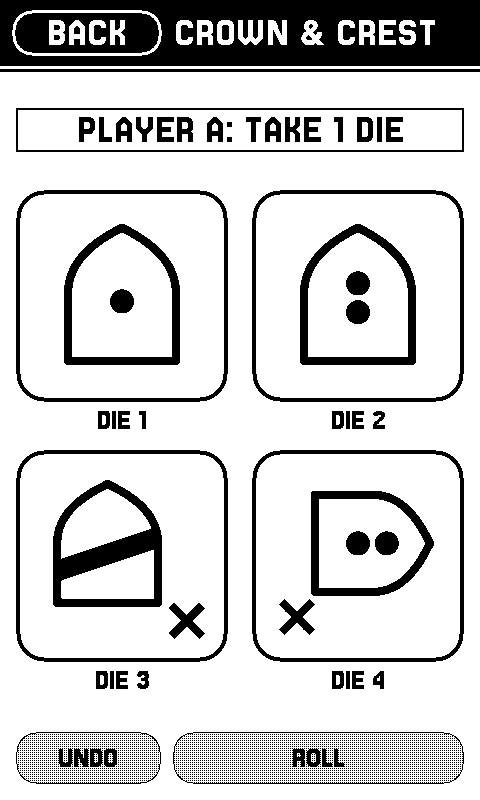
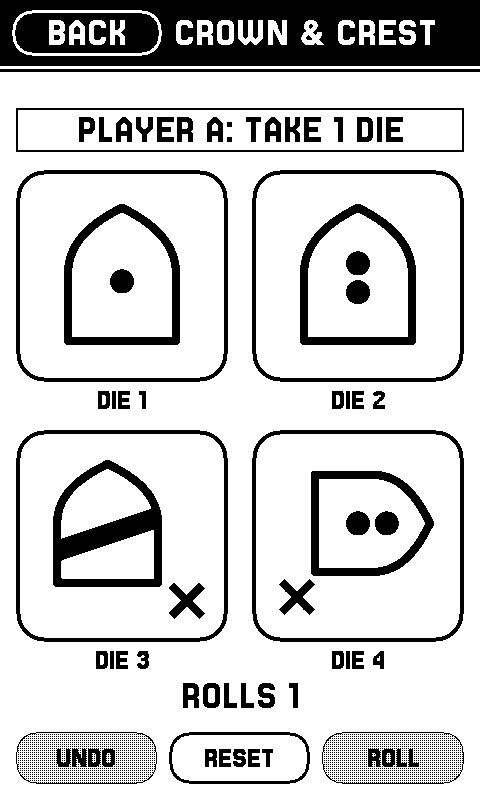
feat(crowncrest): count the rolls, and RESET to start a new game
ROLLS under the dice counts every roll by either player, up to 99999.
RESET sits between UNDO and ROLL and takes two taps: the first turns it into
SURE?, and any other tap or Down cancels it. A reset blanks the dice, clears
the picks and the count, gives player A the first roll, and erases the save.
The save is now version 3, with the count at the end.

Changed region(s): [[0.0312, 0.1875, 0.9688, 1.0], [0.75, 0.9375, 0.875, 0.9688], [0.125, 0.9375, 0.25, 0.9688]]

diff --git a/src/games/crowncrest/crowncrest.cpp b/src/games/crowncrest/crowncrest.cpp
@@ -22,7 +22,8 @@ namespace {
 constexpr const char* SAVE_FILE = "crowncrest";
 
 // A status capsule saying whose move it is, four big dice in a 2 x 2 grid with a label under
-// each naming the die and who took it, then UNDO and ROLL along the bottom.
+// each naming the die and who took it, the roll count, then UNDO, RESET and ROLL along the
+// bottom.
 constexpr int MARGIN = 16;
 constexpr int GAP = 12;
 constexpr int INNER_WIDTH = SCREEN_WIDTH - 2 * MARGIN;
@@ -34,18 +35,25 @@ constexpr int DIE_RADIUS = 28;
 constexpr int LABEL_GAP = 4;
 constexpr int LABEL_HEIGHT = 28;
 constexpr int ROW_GAP = 16;
+constexpr int COUNT_GAP = 4;
+constexpr int COUNT_HEIGHT = 36;
 constexpr int BUTTON_TOP = SCREEN_HEIGHT - MARGIN - ui::PILL_HEIGHT;
-// The grid, centred in the room between the capsule and the buttons.
+// The grid and the count, centred in the room between the capsule and the buttons.
 constexpr int CELL_HEIGHT = DIE + LABEL_GAP + LABEL_HEIGHT;
 constexpr int GRID_HEIGHT = 2 * CELL_HEIGHT + ROW_GAP;
+constexpr int GROUP_HEIGHT = GRID_HEIGHT + COUNT_GAP + COUNT_HEIGHT;
 constexpr int ROOM_TOP = STATUS_TOP + STATUS_HEIGHT + GAP;
-constexpr int GRID_TOP = ROOM_TOP + (BUTTON_TOP - GAP - ROOM_TOP - GRID_HEIGHT) / 2;
-constexpr int UNDO_WIDTH = (INNER_WIDTH - GAP) / 3;
-constexpr int ROLL_LEFT = MARGIN + UNDO_WIDTH + GAP;
-constexpr int ROLL_WIDTH = INNER_WIDTH - UNDO_WIDTH - GAP;
+constexpr int GRID_TOP = ROOM_TOP + (BUTTON_TOP - GAP - ROOM_TOP - GROUP_HEIGHT) / 2;
+constexpr int COUNT_TOP = GRID_TOP + GRID_HEIGHT + COUNT_GAP;
+constexpr int BUTTON_WIDTH = (INNER_WIDTH - 2 * GAP) / 3;
+constexpr int UNDO_LEFT = MARGIN;
+constexpr int RESET_LEFT = UNDO_LEFT + BUTTON_WIDTH + GAP;
+constexpr int ROLL_LEFT = RESET_LEFT + BUTTON_WIDTH + GAP;
+constexpr int ROLL_WIDTH = INNER_WIDTH - 2 * (BUTTON_WIDTH + GAP);  // takes the pixel left over
 
 static_assert(faces::FACE + 2 * ui::FRAME <= DIE, "a face must fit inside its die");
 static_assert(GRID_TOP >= ROOM_TOP, "the dice must start below the capsule");
+static_assert(COUNT_TOP + COUNT_HEIGHT <= BUTTON_TOP - GAP, "the count must end above the buttons");
 
 int dieLeft(int d) { return (SCREEN_WIDTH - 2 * DIE - DIE_GAP) / 2 + (d % 2) * (DIE + DIE_GAP); }
 int dieTop(int d) { return GRID_TOP + (d / 2) * (CELL_HEIGHT + ROW_GAP); }
@@ -64,9 +72,25 @@ class CrownCrest final : public Game {
   }
 
   TapResult onTap(int x, int y) override {
-    if (ui::isOnBack(x, y)) return TapResult::Leave;
+    if (ui::isOnBack(x, y)) {
+      confirming_ = false;
+      return TapResult::Leave;
+    }
+    const bool onReset = ui::isInBox(x, y, RESET_LEFT, BUTTON_TOP, BUTTON_WIDTH, ui::PILL_HEIGHT);
+    // RESET throws the game away, so it takes two taps. Any other tap only cancels it, so a
+    // second tap that misses doesn't also roll or pick.
+    if (confirming_) {
+      confirming_ = false;
+      if (onReset) return resetGame();
+      return TapResult::Redraw;
+    }
+    if (onReset) {
+      if (!cc::canReset(turn_)) return TapResult::Nothing;
+      confirming_ = true;
+      return TapResult::Redraw;
+    }
     if (ui::isInBox(x, y, ROLL_LEFT, BUTTON_TOP, ROLL_WIDTH, ui::PILL_HEIGHT)) return rollDice();
-    if (ui::isInBox(x, y, MARGIN, BUTTON_TOP, UNDO_WIDTH, ui::PILL_HEIGHT)) {
+    if (ui::isInBox(x, y, UNDO_LEFT, BUTTON_TOP, BUTTON_WIDTH, ui::PILL_HEIGHT)) {
       return cc::undoPick(turn_) ? changed() : TapResult::Nothing;
     }
     // A die and its label are one target.
@@ -78,8 +102,15 @@ class CrownCrest final : public Game {
     return TapResult::Nothing;
   }
 
-  // The Down button rolls when a roll is due, for rolling without looking.
-  TapResult onDownPressed() override { return rollDice(); }
+  // The Down button rolls when a roll is due, for rolling without looking. While RESET is
+  // asking to be confirmed, it cancels that instead.
+  TapResult onDownPressed() override {
+    if (confirming_) {
+      confirming_ = false;
+      return TapResult::Redraw;
+    }
+    return rollDice();
+  }
 
   void draw(uint8_t* frame) override {
     ui::drawBand(frame, name(), nullptr, true);
@@ -97,11 +128,21 @@ class CrownCrest final : public Game {
       }
       drawLabel(frame, d);
     }
+    char count[16];
+    std::snprintf(count, sizeof(count), "ROLLS %u", static_cast<unsigned>(turn_.rolls));
+    drawTextInBox(frame, Font::Size20, MARGIN, COUNT_TOP, INNER_WIDTH, COUNT_HEIGHT, count);
 
     if (turn_.picks == 0) {
-      ui::drawDimmedPill(frame, MARGIN, BUTTON_TOP, UNDO_WIDTH, "UNDO");
+      ui::drawDimmedPill(frame, UNDO_LEFT, BUTTON_TOP, BUTTON_WIDTH, "UNDO");
     } else {
-      ui::drawPill(frame, MARGIN, BUTTON_TOP, UNDO_WIDTH, "UNDO", false);
+      ui::drawPill(frame, UNDO_LEFT, BUTTON_TOP, BUTTON_WIDTH, "UNDO", false);
+    }
+    if (confirming_) {
+      ui::drawPill(frame, RESET_LEFT, BUTTON_TOP, BUTTON_WIDTH, "SURE?", true);
+    } else if (cc::canReset(turn_)) {
+      ui::drawPill(frame, RESET_LEFT, BUTTON_TOP, BUTTON_WIDTH, "RESET", false);
+    } else {
+      ui::drawDimmedPill(frame, RESET_LEFT, BUTTON_TOP, BUTTON_WIDTH, "RESET");
     }
     char roll[16];
     std::snprintf(roll, sizeof(roll), "%s ROLLS", playerName(cc::nextRoller(turn_)));
@@ -128,12 +169,21 @@ class CrownCrest final : public Game {
     return cc::rollTurn(turn_, source_, entropy) ? changed() : TapResult::Nothing;
   }
 
+  // A new game, as the first time it's opened, so it's a full refresh.
+  TapResult resetGame() {
+    cc::reset(turn_);
+    persist();
+    return TapResult::RedrawFull;
+  }
+
   // Whose move it is, in words. Solid once all four dice are shared out, so the end of a turn
   // stands out from the picking.
   void drawStatus(uint8_t* frame) const {
     char text[40];
     const uint8_t p = cc::picker(turn_);
-    if (!cc::rolled(turn_.dice)) {
+    if (confirming_) {
+      std::snprintf(text, sizeof(text), "NEW GAME? TAP SURE?");
+    } else if (!cc::rolled(turn_.dice)) {
       std::snprintf(text, sizeof(text), "PLAYER A ROLLS FIRST");
     } else if (cc::done(turn_)) {
       std::snprintf(text, sizeof(text), "PLAYER %s ROLLS NEXT", playerName(cc::nextRoller(turn_)));
@@ -144,7 +194,7 @@ class CrownCrest final : public Game {
     } else {
       std::snprintf(text, sizeof(text), "PLAYER %s: TAKE 1 MORE", playerName(p));
     }
-    const bool solid = cc::done(turn_);
+    const bool solid = cc::done(turn_) && !confirming_;
     if (solid) {
       fillRect(frame, MARGIN, STATUS_TOP, INNER_WIDTH, STATUS_HEIGHT, true);
     } else {
@@ -179,10 +229,15 @@ class CrownCrest final : public Game {
     }
   }
 
-  // The turn, saved on every roll and pick, so a wake shows the same dice and picks.
+  // The turn and the count, saved on every roll and pick, so a wake shows the same dice and
+  // picks. After a reset there's nothing to keep, so the save is erased.
   void persist() {
     if (!storage::ready()) {
       saveFailed_ = false;
+      return;
+    }
+    if (!cc::canReset(turn_)) {
+      saveFailed_ = !storage::erase(SAVE_FILE);
       return;
     }
     uint8_t data[cc::SAVE_BYTES];
@@ -194,6 +249,7 @@ class CrownCrest final : public Game {
   cc::Source source_{};
   bool loaded_ = false;
   bool saveFailed_ = false;
+  bool confirming_ = false;  // RESET was tapped once; not saved, so a wake forgets it
 };
 
 }  // namespace

diff --git a/tests/crowncrest/test_crowncrest.cpp b/tests/crowncrest/test_crowncrest.cpp
@@ -132,21 +132,57 @@ void testSave() {
   Turn untouched;
   check(!unpack(SAVE_VERSION - 1, data, SAVE_BYTES, untouched), "an old version is refused");
   check(!unpack(SAVE_VERSION, data, SAVE_BYTES - 1, untouched), "a short save is refused");
-  const uint8_t blankDie[SAVE_BYTES] = {1, 2, 0, 4, 0, 0, 0, 0, 0};
+  const uint8_t blankDie[SAVE_BYTES] = {1, 2, 0, 4, 0, 0, 0, 0, 0, 1, 0, 0, 0};
   check(!unpack(SAVE_VERSION, blankDie, SAVE_BYTES, untouched), "one blank die is refused");
-  const uint8_t seven[SAVE_BYTES] = {1, 7, 3, 4, 0, 0, 0, 0, 0};
+  const uint8_t seven[SAVE_BYTES] = {1, 7, 3, 4, 0, 0, 0, 0, 0, 1, 0, 0, 0};
   check(!unpack(SAVE_VERSION, seven, SAVE_BYTES, untouched), "a face past 6 is refused");
-  const uint8_t roller[SAVE_BYTES] = {1, 2, 3, 4, 2, 0, 0, 0, 0};
+  const uint8_t roller[SAVE_BYTES] = {1, 2, 3, 4, 2, 0, 0, 0, 0, 1, 0, 0, 0};
   check(!unpack(SAVE_VERSION, roller, SAVE_BYTES, untouched), "a third player is refused");
-  const uint8_t picks[SAVE_BYTES] = {1, 2, 3, 4, 0, 4, 0, 1, 2};
+  const uint8_t picks[SAVE_BYTES] = {1, 2, 3, 4, 0, 4, 0, 1, 2, 1, 0, 0, 0};
   check(!unpack(SAVE_VERSION, picks, SAVE_BYTES, untouched), "four picks are refused");
-  const uint8_t twice[SAVE_BYTES] = {1, 2, 3, 4, 0, 2, 1, 1, 0};
+  const uint8_t twice[SAVE_BYTES] = {1, 2, 3, 4, 0, 2, 1, 1, 0, 1, 0, 0, 0};
   check(!unpack(SAVE_VERSION, twice, SAVE_BYTES, untouched), "the same die picked twice is refused");
-  const uint8_t far[SAVE_BYTES] = {1, 2, 3, 4, 0, 1, 4, 0, 0};
+  const uint8_t far[SAVE_BYTES] = {1, 2, 3, 4, 0, 1, 4, 0, 0, 1, 0, 0, 0};
   check(!unpack(SAVE_VERSION, far, SAVE_BYTES, untouched), "a fifth die is refused");
-  const uint8_t blankPicked[SAVE_BYTES] = {0, 0, 0, 0, 0, 1, 0, 0, 0};
+  const uint8_t blankPicked[SAVE_BYTES] = {0, 0, 0, 0, 0, 1, 0, 0, 0, 0, 0, 0, 0};
   check(!unpack(SAVE_VERSION, blankPicked, SAVE_BYTES, untouched), "picks before a roll are refused");
+  const uint8_t noCount[SAVE_BYTES] = {1, 2, 3, 4, 0, 0, 0, 0, 0, 0, 0, 0, 0};
+  check(!unpack(SAVE_VERSION, noCount, SAVE_BYTES, untouched), "rolled dice with a count of 0 are refused");
+  const uint8_t blankCounted[SAVE_BYTES] = {0, 0, 0, 0, 0, 0, 0, 0, 0, 5, 0, 0, 0};
+  check(!unpack(SAVE_VERSION, blankCounted, SAVE_BYTES, untouched), "a count before any roll is refused");
+  const uint8_t tooMany[SAVE_BYTES] = {1, 2, 3, 4, 0, 0, 0, 0, 0, 0xA0, 0x86, 0x01, 0};  // 100000
+  check(!unpack(SAVE_VERSION, tooMany, SAVE_BYTES, untouched), "a count past the limit is refused");
   check(!rolled(untouched.dice), "a refused save leaves the turn alone");
+
+  Turn counted;
+  counted.dice.face[0] = 2;
+  counted.dice.face[1] = 2;
+  counted.dice.face[2] = 2;
+  counted.dice.face[3] = 2;
+  counted.rolls = 70000;  // over 16 bits, so every count byte is checked
+  pack(counted, data);
+  check(unpack(SAVE_VERSION, data, SAVE_BYTES, back) && back.rolls == 70000, "the count round-trips");
+}
+
+void testCount() {
+  Turn t;
+  Source source;
+  check(t.rolls == 0 && !canReset(t), "a new game has no rolls and nothing to reset");
+  rollTurn(t, source, 1);
+  check(t.rolls == 1 && canReset(t), "a roll counts");
+  check(!rollTurn(t, source, 2) && t.rolls == 1, "a refused roll doesn't count");
+  pick(t, 0);
+  pick(t, 1);
+  pick(t, 2);
+  rollTurn(t, source, 3);
+  check(t.rolls == 2 && t.roller == 1, "B's roll counts in the same total");
+  pick(t, 2);
+  reset(t);
+  check(t.rolls == 0 && !rolled(t.dice) && t.picks == 0 && !canReset(t), "reset clears the count, the dice and the picks");
+  check(nextRoller(t) == 0 && rollTurn(t, source, 4) && t.roller == 0 && t.rolls == 1, "after a reset A rolls first again");
+  for (int i = 0; i < 3; i++) pick(t, i);
+  t.rolls = kMaxRolls;
+  check(rollTurn(t, source, 5) && t.rolls == kMaxRolls, "the count stops at its limit, and the dice still roll");
 }
 
 }  // namespace
@@ -157,6 +193,7 @@ int main() {
   testFaces();
   testDraft();
   testSave();
+  testCount();
   if (failures) {
     std::printf("crowncrest: %d failed\n", failures);
     return 1;

diff --git a/src/games/crowncrest/crowncrest_rules.h b/src/games/crowncrest/crowncrest_rules.h
@@ -67,12 +67,14 @@ inline void roll(Roll& r, Source& source, uint64_t entropy) {
 constexpr int kPlayers = 2;
 constexpr int kPicks = 3;        // the fourth die isn't picked: it's what's left
 constexpr uint8_t kNoOne = 0xFF;
+constexpr uint32_t kMaxRolls = 99999;  // the count stops here rather than wrapping to 0
 
 struct Turn {
   Roll dice;
   uint8_t roller = 0;              // 0 = player A, 1 = player B
   uint8_t picks = 0;               // 0 to 3 dice taken so far
   uint8_t order[kPicks] = {};      // which die each pick took
+  uint32_t rolls = 0;              // rolls by either player since the game began or was reset
 };
 
 inline uint8_t other(uint8_t player) { return static_cast<uint8_t>(1 - player); }
@@ -103,8 +105,15 @@ inline bool rollTurn(Turn& t, Source& source, uint64_t entropy) {
   t.roller = nextRoller(t);
   t.picks = 0;
   roll(t.dice, source, entropy);
+  if (t.rolls < kMaxRolls) t.rolls++;
   return true;
 }
+
+// A new game: blank dice, no picks, a count of 0, and player A rolls first.
+inline void reset(Turn& t) { t = Turn{}; }
+
+// Whether a reset would change anything.
+inline bool canReset(const Turn& t) { return rolled(t.dice) || t.rolls != 0; }
 
 // Takes a die for whoever's pick it is. False for a die that's taken or when no pick is due.
 inline bool pick(Turn& t, int die) {

diff --git a/src/games/crowncrest/crowncrest_save.h b/src/games/crowncrest/crowncrest_save.h
@@ -6,16 +6,18 @@
 #include "crowncrest_rules.h"
 
 // The turn as bytes, so sleep or a flat battery brings back the same dice and picks: one face a
-// die, the roller, how many picks are made, then the die each pick took.
+// die, the roller, how many picks are made, the die each pick took, then the roll count in 4
+// bytes, low byte first.
 namespace crowncrest {
 
-constexpr uint8_t SAVE_VERSION = 2;
-constexpr size_t SAVE_BYTES = kDice + 2 + kPicks;
+constexpr uint8_t SAVE_VERSION = 3;  // 2 had no roll count
+constexpr size_t SAVE_BYTES = kDice + 2 + kPicks + 4;
 
 size_t pack(const Turn& turn, uint8_t* out);
 
 // Returns false and leaves the turn alone unless every die shows a face from 1 to 6 (or all are
-// blank before the first roll), the roller is A or B, and the picks are different dice.
+// blank before the first roll), the roller is A or B, the picks are different dice, and the
+// count is 0 before the first roll and 1 to kMaxRolls after it.
 bool unpack(uint8_t version, const uint8_t* in, size_t size, Turn& turn);
 
 }  // namespace crowncrest

diff --git a/src/games/crowncrest/crowncrest_save.cpp b/src/games/crowncrest/crowncrest_save.cpp
@@ -7,6 +7,7 @@ size_t pack(const Turn& turn, uint8_t* out) {
   out[kDice] = turn.roller;
   out[kDice + 1] = turn.picks;
   for (int i = 0; i < kPicks; i++) out[kDice + 2 + i] = i < turn.picks ? turn.order[i] : 0;
+  for (int b = 0; b < 4; b++) out[kDice + 2 + kPicks + b] = static_cast<uint8_t>(turn.rolls >> (8 * b));
   return SAVE_BYTES;
 }
 
@@ -26,12 +27,16 @@ bool unpack(uint8_t version, const uint8_t* in, size_t size, Turn& turn) {
     if (die >= kDice || taken[die]) return false;
     taken[die] = true;
   }
+  uint32_t rolls = 0;
+  for (int b = 0; b < 4; b++) rolls |= static_cast<uint32_t>(in[kDice + 2 + kPicks + b]) << (8 * b);
+  if (blank ? rolls != 0 : rolls < 1 || rolls > kMaxRolls) return false;
 
   Turn loaded;
   for (int d = 0; d < kDice; d++) loaded.dice.face[d] = in[d];
   loaded.roller = roller;
   loaded.picks = picks;
   for (int i = 0; i < picks; i++) loaded.order[i] = in[kDice + 2 + i];
+  loaded.rolls = rolls;
   turn = loaded;
   return true;
 }

diff --git a/src/games/crowncrest/README.md b/src/games/crowncrest/README.md
@@ -24,6 +24,8 @@ Then the other player rolls, and the same happens with the roles swapped. Scorin
 - Tap a die (or its label) to take it for the player named in the capsule. A taken die's label turns black and names its owner, such as `DIE 3: PLAYER A`.
 - Once all four are shared out, the capsule turns black and says who rolls next.
 - `UNDO` takes back the last die taken this turn.
+- `ROLLS` under the dice counts every roll by either player since the game began. It stops at 99999.
+- `RESET` starts a new game: the dice go blank, the count goes back to 0, and player A rolls first. It turns into `SURE?` on the first tap, and only a second tap on it resets. Any other tap, or the Down button, cancels it. It's greyed out before the first roll.
 - `BACK` in the header returns to the home page. The turn is kept.
 
 ## How the dice stay fair
@@ -36,7 +38,7 @@ All in `/.pocketplay/`:
 
 | Name | Holds |
 |---|---|
-| `crowncrest` | The dice showing, who rolled them and the dice taken so far, saved on every roll and pick, so sleep or a flat battery brings back the same turn. |
+| `crowncrest` | The dice showing, who rolled them, the dice taken so far and the roll count, saved on every roll and pick, so sleep or a flat battery brings back the same turn. `RESET` erases it. |
 
 ## Credits
 

diff --git a/CHANGELOG.md b/CHANGELOG.md
@@ -7,6 +7,7 @@ Before a release, add what changed under `## Unreleased` at the top, and commit 
 ## Unreleased
 
 - **Dice Roller:** a count of your rolls under the total, and a `RESET` button that clears the dice and starts the count again from 0.
+- **Crown & Crest:** a count of the rolls under the dice, and a `RESET` button that starts a new game. Tap it twice to confirm: the first tap turns it into `SURE?`.
 
 ## 0.5.0
 
